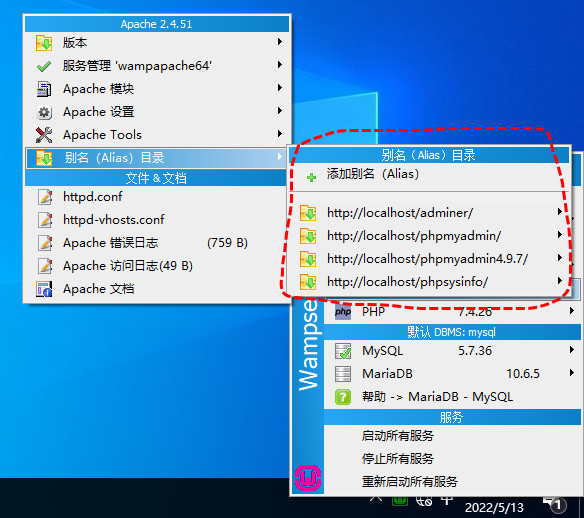
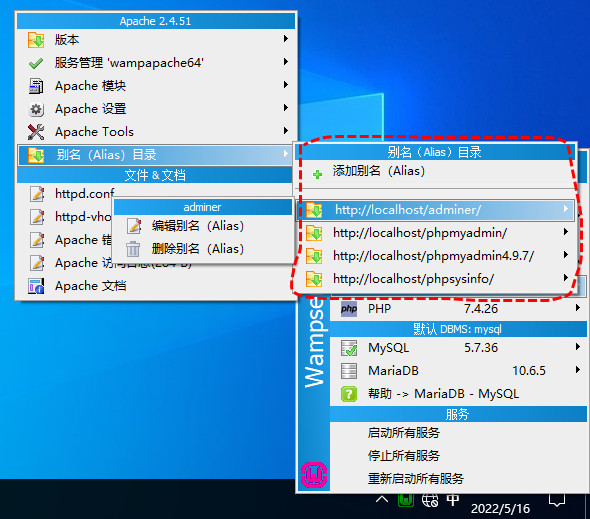
writing

Changed region(s): [[0.0, 0.0, 1.0, 0.9884]]

diff --git a/11_付费课程/01.【小白PHP入坑必备系列】快速全面掌握 WAMPServer/202201051515_【快速全面掌握 WAMPServer】05.整明白 Apache/05.整明白 Apache.md b/11_付费课程/01.【小白PHP入坑必备系列】快速全面掌握 WAMPServer/202201051515_【快速全面掌握 WAMPServer】05.整明白 Apache/05.整明白 Apache.md
@@ -10,15 +10,21 @@
 
 阿帕奇`Apache` 是一个非常著名的软件基金组织，始建于 `1999` 年，有可能比在坐的小伙伴年龄还要大。
 
-号称世界最大的开源软件基金组织 `Apache` 现在拥有非常非常多的开源软件，它为地球村的村民们做出了巨大而杰出的贡献。
+号称世界最大的开源软件基金组织 `Apache` 目前为止已拥有数量众多的开源软件，它为地球村的村民们做出了巨大而杰出的贡献。
 
-不过从狭义的角度来讲，通常我们所说的 `Apache` 是指 `Apache HTTP Server` ，它则是一款非常流行的开源网页服务器软件。
+不过从狭义的角度来讲，通常我们所说的 `Apache` 则是指 `Apache HTTP Server` ，是一款非常流行的开源网页服务器软件。
 
-没错，它也是 `Apache` 软件基金组织众多软件之一，后面我们谈及的 `Apache` 单纯只是在说一款网页服务器软件了！
+没错，这个软件同样也是 `Apache` 软件基金组织众多软件之一，因此注意哈，后面我们谈及的 `Apache` 单纯只是在说一款网页服务器软件！
+
+网页服务器软件，简单地说就是你可以拿它来做一个网站，可以解析网页文件并提供 `http(s)` 连接访问服务。
+
+当它正常运行时，你就可以使用浏览器来访问它，而 `Apache` 正是网页服务器软件界的前辈！
 
 
 
-我们打开 `Apache` 官网，来简单见见这位比自己年龄还大的互联网前辈吧！
+### 初识 `Apache`
+
+我们打开 `Apache` 官网，来简单认识一下这位可能比自己年龄还大的互联网前辈吧！
 
 > https://www.apache.org/
 
@@ -26,19 +32,23 @@
 
 
 
-首页一根羽毛映入眼帘，它正是 `Apache` 的 `Logo` ，记住它！
+呃...首页一根羽毛映入眼帘......
 
-在那个互联网还末有非常丰富软件的年代，`Apache` 完全可称得上是快速、高效、稳定，我猜羽毛正是它想对人们表达自己是如何的轻盈而又飘逸。
+什么，羽毛？
 
-作为一款流行的网页服务器软件，官网自然也是用着自家的软件了。
+是的，它正是 `Apache` 的经典标志 `Logo` ，记住它！
 
-我们可以按下 `F12` 键开启调试模式，然后在 `网络` 一栏中查看消息头中的响应信息。
+在那个互联网还末有非常丰富软件的年代，`Apache` 完全可称得上是快速、高效、稳定的高级代表，我猜羽毛正是它想向人们表达自己是如何的轻盈而又飘逸。
+
+作为一款非常流行的网页服务器软件，官网自然也是用着自家的软件了。
+
+要想验证这个想法，我们可以在浏览器窗口上按下 `F12` 键开启调试模式，然后在 `网络` 一栏中查看消息头中的响应信息。
 
 图b01
 
 
 
-那我们想要找的网页服务器软件又在哪里呢？
+那我们想要得到的网页服务器软件又在哪里呢？
 
 其实它可以从这边找到！
 
@@ -50,9 +60,11 @@
 
 在打开的页面中，我们从一大坨软件中找到 `httpd` 。
 
-没错！我们需要注意的是，其实它应该被叫作 `httpd` 才更合理，在 `Liinux` 下就是这个软件名称。
+是不是有些奇怪呢？
 
-你不可能去安装一个叫作 `apache` 的软件，因为它并不存在。
+其实没错！我们需要注意的是，其实软件包应该被叫作 `httpd` 才更合理，提供的是 `http(s)` 服务嘛，在 `Linux` 下就是这个软件名称哦！
+
+你不可能去安装一个名叫 `apache` 的软件，因为那不是它真正的名称。
 
 图a03
 
@@ -66,13 +78,9 @@
 
 
 
-
-
 刚才说的这些都是 `Linux` 版本，`Windows` 上想要跑 `httpd` 则需要到其他地方寻找。
 
 > https://httpd.apache.org/docs/current/platform/windows.html
-
-
 
 
 
@@ -80,9 +88,9 @@
 
 因此如果想要获取可以在 `Windows` 上奔跑的可执行程序，那么需要我们自己编译。
 
-这对于像和一样的小白朋友们来说，肯定是道不可逾越的鸿沟啊！
+这对于像和一样小白的朋友们来说，肯定是道不可逾越的鸿沟啊！
 
-好在网络上大神辈出，比如像下面我们可以下载 `Apache` 二进制文件和模块文件。
+好在网络上大神辈出，比如像下面我们可以下载到 `Apache` 二进制文件和模块文件。
 
 其中的 `VS17` 字样，是指对应的 `Visual Studio C++` 组件版本，比如 `VS17` 就对应的 `2022` ，那么我们事先安装 `VC++2022` 就可以正常使用 `Apache` 了。
 
@@ -90,13 +98,13 @@
 
 
 
-当然了，被官网所列出的 `Apache for Windows` 可不止一个项目，其中就包括我们这套系列所讲的 `WampServer` 。
+当然了，被官网认证并列举出的 `Apache for Windows` 可不止一个项目，其中就包括我们这套系列所讲的 `WampServer` 。
 
-使用 `WampServer` 中的 `Apache` 安装省力，使用非常方便。
+使用 `WampServer` 中的 `Apache` 安装省时省力，使用起来也非常方便。
 
 如果你老老实实依次安装前面所提到的二进制安装包以及数量众多的模块文件，那么很有可能你会遭遇到无数个深坑，所以说小白还是用 `WampServer` 来得实际一些。
 
-接下来我们还是聊一聊 `WampServer` 上的 `Apache` 吧！
+因此珍惜生命，接下来我们还是聊一聊 `WampServer` 上的 `Apache` 吧！
 
 
 
@@ -104,7 +112,7 @@
 
 当我们安装完 `WampServer` 之后，`Apache` 也随之安装完成了。
 
-理所当然地，它已经帮我们把什么二进制文件还有所需模块统统一股脑儿搞定了！
+理所当然地，它已经帮我们把二进制文件还有所需模块统统一股脑儿搞定了！
 
 图c01
 
@@ -117,6 +125,8 @@
 而菜单的下半部分则罗列了 `Apache` 几个主要的配置文件，通常我们不必刻意手动去修改这些文件，`WampServer` 往往带有配置修改工具，后面会说到。
 
 
+
+##### 服务管理
 
 好，我们来先看下 `Apache` 的服务管理。
 
@@ -142,6 +152,8 @@
 
 
 
+##### `Apache 模块`
+
 至于 `Apache` 模块，`WampServer` 已经帮我们搞定了一切。
 
 你看，这么多模块，反正我是不可能自己去挨个下载安装的，这工作量想想都恐怖啊！
@@ -152,11 +164,15 @@
 
 
 
+##### `Apache` 设置
+
 同样，关于 `Apache` 设置，也是不需要我们去刻意修改的，除非有特殊的要求。
 
 图c05
 
 
+
+##### `Apache` 工具
 
 接下来是 `Apache` 工具，说白了就是 `WampServer` 为我们提供的额外的方便法门。
 
@@ -168,31 +184,177 @@
 
 
 
-还有一个，就是别名 `Alias` 目录，用来查看 `WampServer` 中有几个别名目录。
+##### 别名（Alias）目录
 
-这个别名很有用，但是它和虚拟主机名还不是一回事。
+还有一个，就是别名 `Alias` 目录，用来查看编辑 `WampServer` 中的别名目录。
 
-别名通常是在同一个域名下有多个别名子目录，而虚拟主机则是指不同域名的各个独立的站点。
+别名实际上我们为给网站起的小名。
+
+怎么理解它呢？
+
+通常网站是一个域名，比如 `www.sysadm.cc` ，我们访问这个网站就打上这个域名回车就行了。
+
+而别名呢，就是在这个域名后面加上个名字，这个名字指向了特定的网站目录。
+
+比如 `www.sysadm.cc/adminer` ，我们在后面加了一个别名 `adminer` ，那么它就会访问我们指定的网站目录。
+
+需要注意的是，这个别名 `adminer` 指向的目录并不一定是在网站根目录 `wwwroot` 中。
+
+就像 `WampServer` 中的一些别名目录一样，它的实际目录路径在 `apps` 中。
+
+这样做的好处显而易见，一个网站可以有多个不同的访问目录，非常灵活。
+
+图c09
+
+
 
 默认情况下，`WampServer` 已经有了四个别名目录，这些别名目录用于一些系统信息的显示和管理。
 
 比如：`adminer` 、`phpmyadmin` 和 `phpsysinfo` 。
 
+并且我们很容易就可以添加、编辑或删除别名，非常方便。
+
 图c08
 
 
 
+这个别名目录非常有用，我们可以设定多个不同的别名来访问不同的目录内容，但是它和虚拟主机名还不是一回事。
+
+别名通常是在同一个域名下有多个别名子目录，它依附于同一个域名，而虚拟主机则是指不同域名的各个独立的站点。
 
 
 
+##### 文件&文档
+
+菜单的下半部分是一些 `Apache` 的主要配置文件和相关文档。
+
+以下这些文件都是我们平时经常需要操作的。
+
+* `httpd.conf` - 主配置文件
+
+* `httpd-vhosts.conf` - 虚拟主机配置文件
+
+* `Apache 错误日志`
+
+* `Apache 访问日志`
+
+  
+
+配置文件叫作 `httpd.conf` ，这个我们前面说过，实际的软件包名字就叫 `httpd` ，因此也没什么好奇怪的。
+
+通常 `WampServer` 默认已经帮我们设定好了一个 `localhost` 的站点了，并不需要特别去配置它就能使用了。
+
+如果我们需要改变或设定一些特殊的设定，那么我们才需要直接编辑 `httpd.conf` 文件 或 `httpd-vhosts.conf` 文件。
+
+比如我们想让用户通过指定的 `IP` 或端口号来访问网站而不是默认的 `0.0.0.0:80` ，那么我们可以在 `httpd.conf` 文件中修改 `Listen` 参数。
+
+```
+Listen 192.168.1.100:8080
+```
 
 
 
+而关于错误日志和访问日志，这两大法器对我们来说是非常重要的。
+
+前者（错误日志）可以帮助我们判断配置文件是否配置成功，当有错误发生时我们就可以用它来查看是哪里出了问题，比如 `Apache` 服务无法正常启动等等。
+
+后者（访问日志）则是用来查看用户访问我们网站时的连接记录，可以用来判断网站访问是否正常，比如访问端口是否正确、访问权限是否正确等等。
+
+具体的使用方法将在后续教程中一一详细说明。
 
 
 
+### 简单测试 `Apache`
+
+说到这里，我们还是给小伙伴们实际操作演示一下，实践出真知，这样会比较好理解一些。
 
 
+
+我们先找到 `WampServer` 的网站根目录，假如你是默认安装在 `C` 盘的。
+
+```
+C:\wamp64\www
+```
+
+在根目录下新建一个文本文件，内容如下，并保存文件名为 `test.html` 。
+
+```
+<!DOCTYPE HTML>
+<html lang="en">
+<head><meta charset="UTF-8"></head>
+Hello！！欢迎关注网管小贾！！
+</html>
+```
+
+
+
+好，我们在确保开启 `WampServer` 的前提下打开浏览器，输入如下网址访问。
+
+注意，可不是直接双击这个文件哦！
+
+```
+http://localhost/test.html
+```
+
+图c10
+
+
+
+之后我们就应该可以看到文件内容的正常输出了。
+
+图c11
+
+
+
+随后我来检查一下访问日志。
+
+点击 `WampServer` 任务栏图标，依次点击 `Apache` > `Apache 访问日志` 。
+
+图d01
+
+
+
+在打开的日志文件 `access.log` 中，我们可以看到最新的几条日志记录。
+
+从中我们可以得知用户源地址、访问请求方式和协议、访问的是什么，有没有成功等等信息。
+
+
+
+比如就这个例子来说：
+
+用户源地址是 `::1` ，这是个 `IPv6` 的回环地址，因为我们用的是 `localhost` 嘛；
+
+访问协议及请求方式分别是 `http/1.1` 以及 `GET` 请求；
+
+响应编号 `200` 表示连接成功；
+
+最后面的数字则表示请求资源的大小。
+
+图d02
+
+
+
+### 写在最后
+
+本文旨在入门式地为小伙伴们介绍 `Apache` 的一些概念，具体的比较复杂的配置可以参数其他文章，本文如果详细展开不太现实，也没有十分的必要。
+
+由于 `WampServer` 为我们提供了非常便利的 `Apache` 引擎，因此我们只需初步的基础知识就能够很好地使用它了。
+
+总之，当你接触多了，基本上所有的 `Web` 服务软件都能够理解了，因为它们本质上都是为了提供网页访问服务的，而 `IP`地址和请求方式啥的概念都是通用的。
+
+当我们将一个文件放到 `Web` 服务器上时就能随时随地地访问它，不论这个文件是什么样的。
+
+如果它是 `htm/html` 文件，那么它的内容就会被解析为标记语言。
+
+如果它是个压缩包文件，那么它会被浏览器视为下载文件。
+
+但是仅仅是用于显示和下载的话，那互联网也不会如此丰富多彩，要知道依靠 `Apache` 这样的 `Web` 服务软件仅仅只能做到显示静态内容而已。
+
+如果我想填写一个表单，用于向服务器提交一份资料，那么只靠 `Apache` 似乎就不行了。
+
+这样的功能被称作动态内容，像这样超出 `Apache` 正常工作范围之外的事情肯定是需要其他人来做，而在 `WampServer` 中也确实有这么一位专业解析动态内容的。
+
+没错，在一下期中，我们将隆重介绍 `WampServer` 别一位成员， `Apache` 的好伙伴：`PHP` ！
 
 
 
